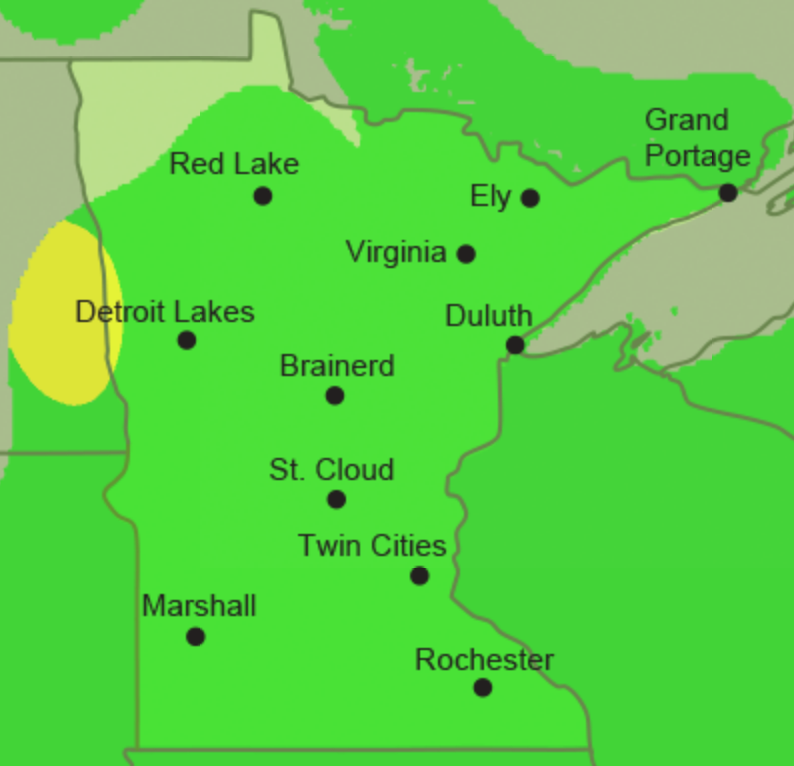
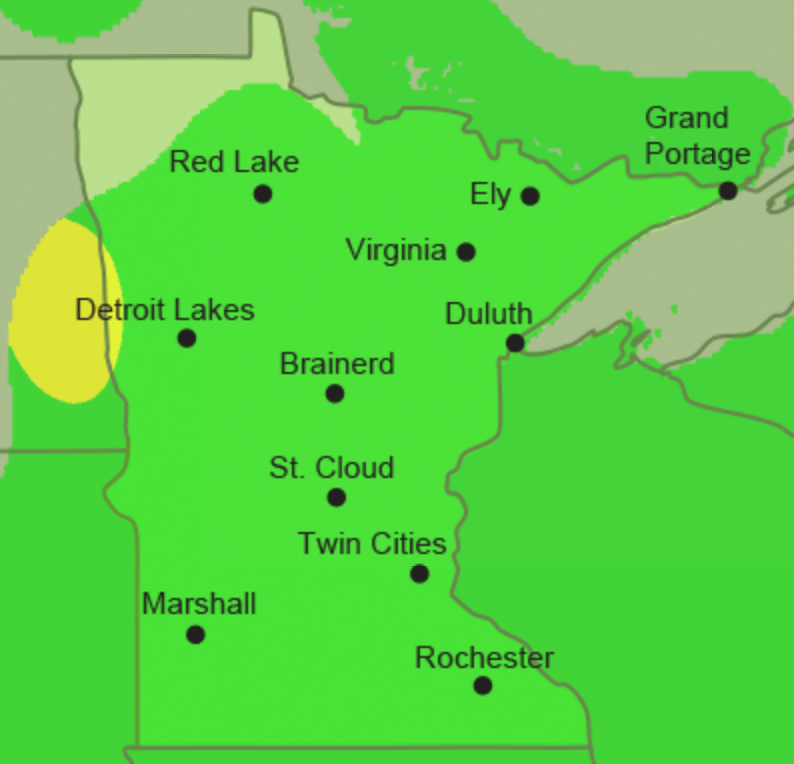
update aqi charts

diff --git a/index.html b/index.html
@@ -18,7 +18,6 @@
 <script src="index_files/bootstrap-3.3.5/shim/html5shiv.min.js"></script>
 <script src="index_files/bootstrap-3.3.5/shim/respond.min.js"></script>
 
-
 <style type="text/css">
 h1 {
   font-size: 34px;
@@ -81,9 +80,6 @@ button.code-folding-btn:focus {
 
 <div class="fluid-row" id="header">
 
-
-
-
 </div>
 
 
@@ -92,10 +88,10 @@ button.code-folding-btn:focus {
 </script>
 <div class="box left">
 <div class="inner">
-<p><span class="titles">Today's air quality </span><span class="titles sub">Time lapse since Midnight</span></p>
+<p><span class="titles">Today's air quality </span><span class="titles sub">Time lapse since midnight</span></p>
 <div class="us-map">
 <div style="us-map-inner">
-<p><img src   = "https://files.airnowtech.org/airnow/today/anim_aqi_usa.gif" border="0" title="U.S. AQI Animation" style = "width: 108%; margin-left: 4px; margin-right: 2px; margin-top: 0;"></p>
+<p><img src   = "https://files.airnowtech.org/airnow/today/anim_aqi_usa.gif" border="0" title="U.S. AQI Animation" style = "width: 105%; margin-left: 4px; margin-right: 2px; margin-top: 0;"></p>
 </div>
 </div>
 </div>
@@ -117,9 +113,7 @@ button.code-folding-btn:focus {
 </div>
 </div>
 
-
 </div>
-
 
 
 </body>

diff --git a/aqi_4panel.css b/aqi_4panel.css
@@ -10,7 +10,7 @@ body {
 
 
 .titles {
-  font-size: 2em; 
+  font-size: 1.8em; 
   background-color: white; 
   font-weight: bold; 
   margin-left: 4px; 
@@ -19,7 +19,7 @@ body {
 }
 
 .sub {
-  font-size: 1.4em; 
+  font-size: 1.3em; 
   font-weight: normal; 
   color: #939393;
 }
@@ -69,11 +69,11 @@ body {
 }
 
 .us-map {
-  width: 98%; 
+  width: 98.7%; 
   height: 92%;
   overflow: hidden;
-  margin-top: -12px;
-  margin-left: 12px;
+  margin-top: -14px;
+  margin-left: 6px;
   margin-right: 5px;
   padding-top: 12px;
   padding-bottom: 8px;
@@ -82,29 +82,29 @@ body {
 
 .us-map-inner {
    position: absolute;
-   left: 10px;
-   top: 0px;
-   width: 95%;
+   left: 0;
+   top: 0;
+   width: 98%;
    overflow: hidden;
    z-index: -5;
 }
 
 
 .mn-map { 
-  width: 96%;
-  height: 84%;
+  width: 95%;
+  height: 85.5%;
   overflow: hidden;
   z-index: 1;
-  margin-left: 12px;
-  margin-top: 8px;
+  margin-left: 10px;
+  margin-top: 5px;
 }
 
 
 .aqi-days { 
-  width: 94.5%; 
-  height: 80%;
+  width: 94%; 
+  height: 81%;
   overflow: hidden;
-  margin-top: 6px;
+  margin-top: 2px;
 }
 
 
